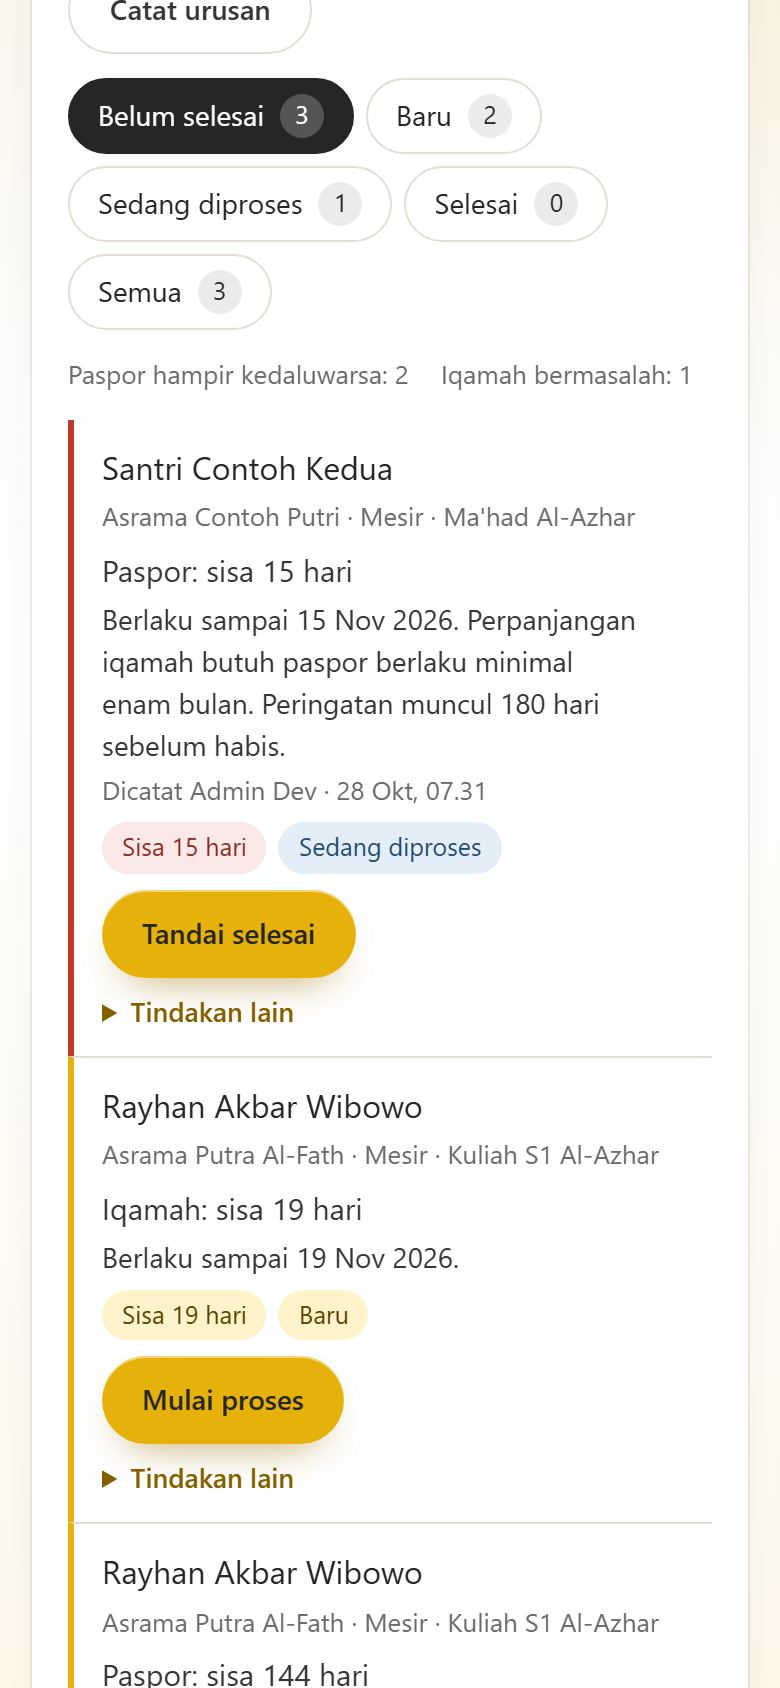
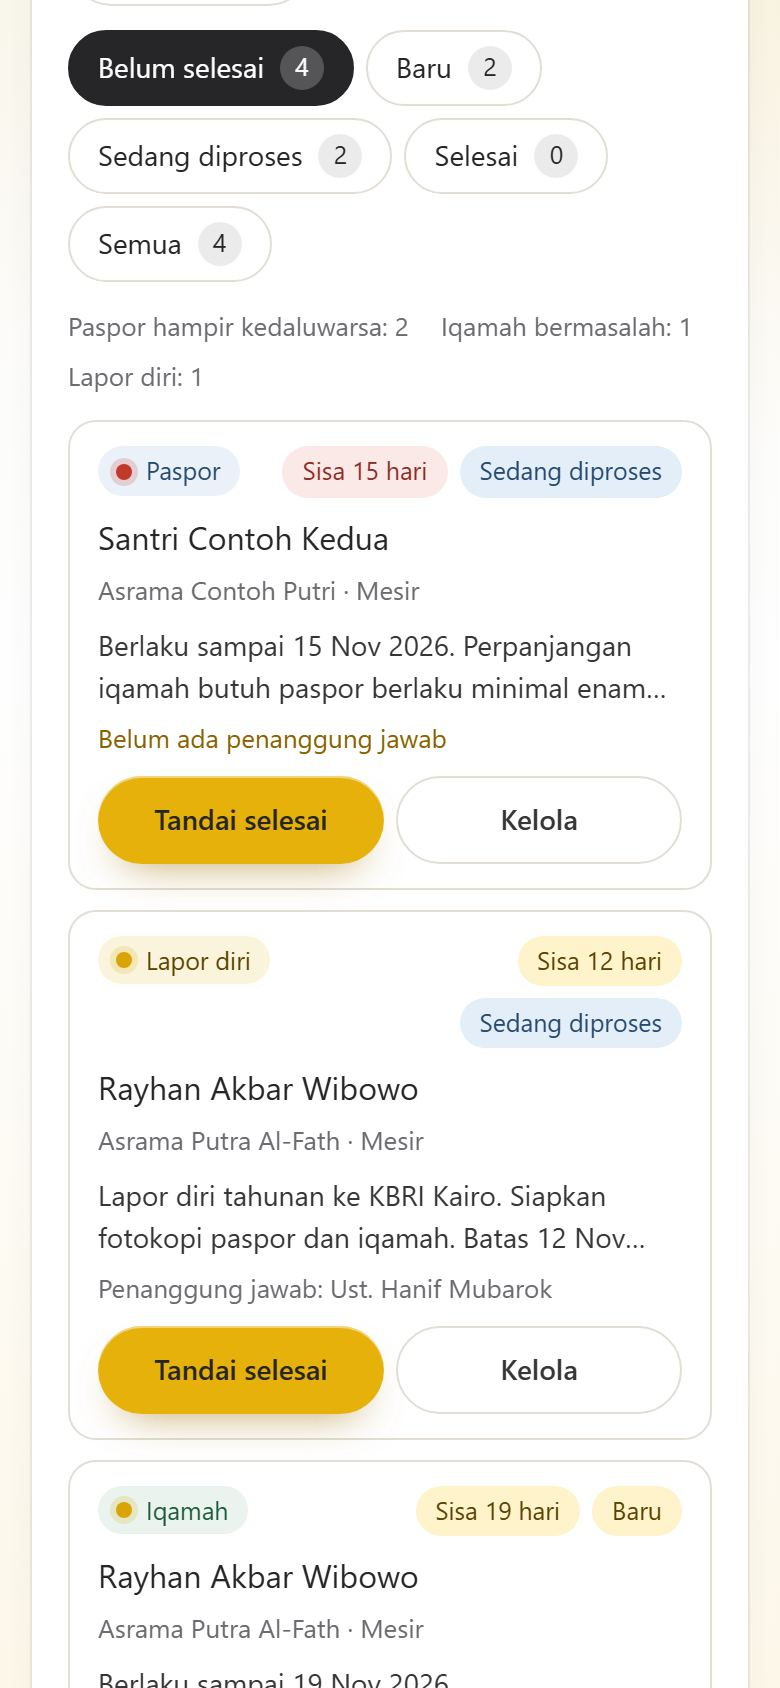
Pitch: gambar dan teks Asisten dan Monitoring disamakan dengan tampilan terbaru
- m-asisten.jpg sekarang chatbox dengan kartu usulan pengumuman; teks keterangan dan
  daftar peran admin menyebut chat, bukan formulir tugas.
- m-monitoring.jpg memakai kartu urusan ringkas dengan titik warna.
- Label jenis urusan tidak lagi terpotong dua baris di HP; chip sisa hari dan status
  boleh turun ke baris kedua.
- pitch-shots.cjs disesuaikan dengan kelas dan alur baru.

diff --git a/website/pitch.html b/website/pitch.html
@@ -101,7 +101,7 @@
             <figure class="web-item" data-reveal><div class="phone"><div class="scr"><img src="../assets/pitch/m-kegiatan.jpg" alt="Halaman absen kegiatan, setoran hafalan, dan rapor bulanan" width="390" height="844" loading="lazy" /></div></div><figcaption><b>Kegiatan dan rapor</b><span>Absen kegiatan, setoran hafalan, dan rapor bulanan.</span></figcaption></figure>
             <figure class="web-item" data-reveal><div class="phone"><div class="scr"><img src="../assets/pitch/m-inventaris.jpg" alt="Daftar barang asrama: kode, jenis, tempat, jumlah, kondisi, dan sumber dana" width="390" height="844" loading="lazy" /></div></div><figcaption><b>Barang asrama</b><span>Kode barang, sumber dana, dan pengecekan tiap bulan.</span></figcaption></figure>
             <figure class="web-item" data-reveal><div class="phone"><div class="scr"><img src="../assets/pitch/m-pengingat.jpg" alt="Daftar wali yang tagihannya belum lunas, dengan tombol untuk kirim pengingat lewat WhatsApp" width="390" height="844" loading="lazy" /></div></div><figcaption><b>Pengingat tagihan</b><span>Pesannya sudah siap, petugas tinggal kirim lewat WhatsApp.</span></figcaption></figure>
-            <figure class="web-item" data-reveal><div class="phone"><div class="scr"><img src="../assets/pitch/m-asisten.jpg" alt="Asisten Hamasah membuatkan ringkasan kondisi satu asrama" width="390" height="844" loading="lazy" /></div></div><figcaption><b>Asisten Hamasah</b><span>Bantu bikin ringkasan kondisi asrama dan contoh pengumuman.</span></figcaption></figure>
+            <figure class="web-item" data-reveal><div class="phone"><div class="scr"><img src="../assets/pitch/m-asisten.jpg" alt="Asisten Hamasah menyusun pengumuman dari cerita yang diketik di kotak chat" width="390" height="844" loading="lazy" /></div></div><figcaption><b>Asisten Hamasah</b><span>Tinggal bercerita seperti chat biasa. Asisten bantu menyusun pengumuman dan catatan urusan, Sidi tinggal periksa.</span></figcaption></figure>
           </div>
         </section>
 
@@ -113,7 +113,7 @@
           </div>
           <div class="grid g4">
             <div class="card" data-reveal><span class="tag">Pimpinan dan admin</span><h3>Semua bisa dipantau dari satu tempat</h3>
-              <ul class="dot-list"><li>Pantauan paspor, iqamah, dan urusan santri lainnya</li><li>Nilai kerja musyrif dan persetujuan surat</li><li>Pengumuman khusus untuk musyrif</li><li>Asisten Hamasah untuk bikin ringkasan dan contoh tulisan</li><li>Masukkan data santri sekaligus dari Excel</li></ul></div>
+              <ul class="dot-list"><li>Pantauan paspor, iqamah, dan urusan santri lainnya</li><li>Nilai kerja musyrif dan persetujuan surat</li><li>Pengumuman khusus untuk musyrif</li><li>Asisten Hamasah: cukup bercerita lewat chat, lalu dibantu menyusun pengumuman, catatan urusan, dan ringkasan</li><li>Masukkan data santri sekaligus dari Excel</li></ul></div>
             <div class="card" data-reveal><span class="tag">Musyrif</span><h3>Catatan harian jadi lengkap</h3>
               <ul class="dot-list"><li>Absen kegiatan dan catatan setoran hafalan</li><li>Rapor bulanan yang dicek dulu sebelum dikirim ke wali</li><li>Cek barang asrama tiap bulan pakai foto</li><li>Foto kegiatan dan cek laporan iqamah dari santri</li><li>Pengumuman dari admin langsung muncul di daftar tugas harian</li></ul></div>
             <div class="card" data-reveal><span class="tag">Bagian keuangan</span><h3>Dari tagihan sampai lunas</h3>

diff --git a/website/monitoring-pusat.css b/website/monitoring-pusat.css
@@ -152,7 +152,7 @@
 .ur.is-sedang:not(.is-selesai) { --ur-sinyal: #D9A406; }
 .ur.is-selesai { --ur-sinyal: #3F8F5F; background: var(--k26-ivory, #FBFAF6); }
 .ur.is-selesai .ur__name { color: var(--k26-muted, #6B6B70); }
-.ur__kind { grid-area: kind; justify-self: start; display: inline-flex; align-items: center; gap: 7px; padding: 4px 10px 4px 9px; border-radius: 999px; background: #F3F0E8; color: #5B5850; font-size: 12.5px; font-weight: 700; line-height: 1.3; }
+.ur__kind { grid-area: kind; justify-self: start; white-space: nowrap; display: inline-flex; align-items: center; gap: 7px; padding: 4px 10px 4px 9px; border-radius: 999px; background: #F3F0E8; color: #5B5850; font-size: 12.5px; font-weight: 700; line-height: 1.3; }
 .ur__kind::before { content: ""; flex: none; width: 8px; height: 8px; border-radius: 50%; background: var(--ur-sinyal); box-shadow: 0 0 0 3px color-mix(in srgb, var(--ur-sinyal) 18%, transparent); }
 .ur__kind--paspor { background: #EBF1F8; color: #264B73; }
 .ur__kind--iqamah { background: #EAF3EE; color: #1F5B3A; }
@@ -183,8 +183,8 @@
 .ur-dialog__history ul { display: grid; gap: 6px; margin: 0; padding-left: 18px; color: var(--k26-text, #363638); font-size: 13.5px; line-height: 1.45; }
 
 @media (max-width: 900px) {
-  .ur { grid-template-columns: minmax(0, 1fr) auto; grid-template-areas: "kind when" "main main" "act act"; }
-  .ur__when { flex-direction: row; align-items: center; }
+  .ur { grid-template-columns: auto minmax(0, 1fr); grid-template-areas: "kind when" "main main" "act act"; }
+  .ur__when { flex-direction: row; flex-wrap: wrap; align-items: center; justify-content: flex-end; }
   .ur__act { grid-template-columns: 1fr 1fr; }
 }
 @media (max-width: 640px) {

diff --git a/website/portal.html b/website/portal.html
@@ -23,7 +23,7 @@
     <link rel="stylesheet" href="konsol-2026.css?v=2a5d064aa2" />
     <link rel="stylesheet" href="musyrif-dashboard.css?v=66b407cdd8" />
     <link rel="stylesheet" href="profil-santri.css?v=cff54edcaf" />
-    <link rel="stylesheet" href="monitoring-pusat.css?v=6ee5891c6d" />
+    <link rel="stylesheet" href="monitoring-pusat.css?v=9dabb4329a" />
     <script src="session-hint.js?v=6f256bba67"></script>
     <!-- Layar pertama ditahan sampai skrip konsol selesai menggambar menu dan nama akun,
          supaya pindah menu tidak menampilkan kerangka kosong. Lihat portal.css. -->
